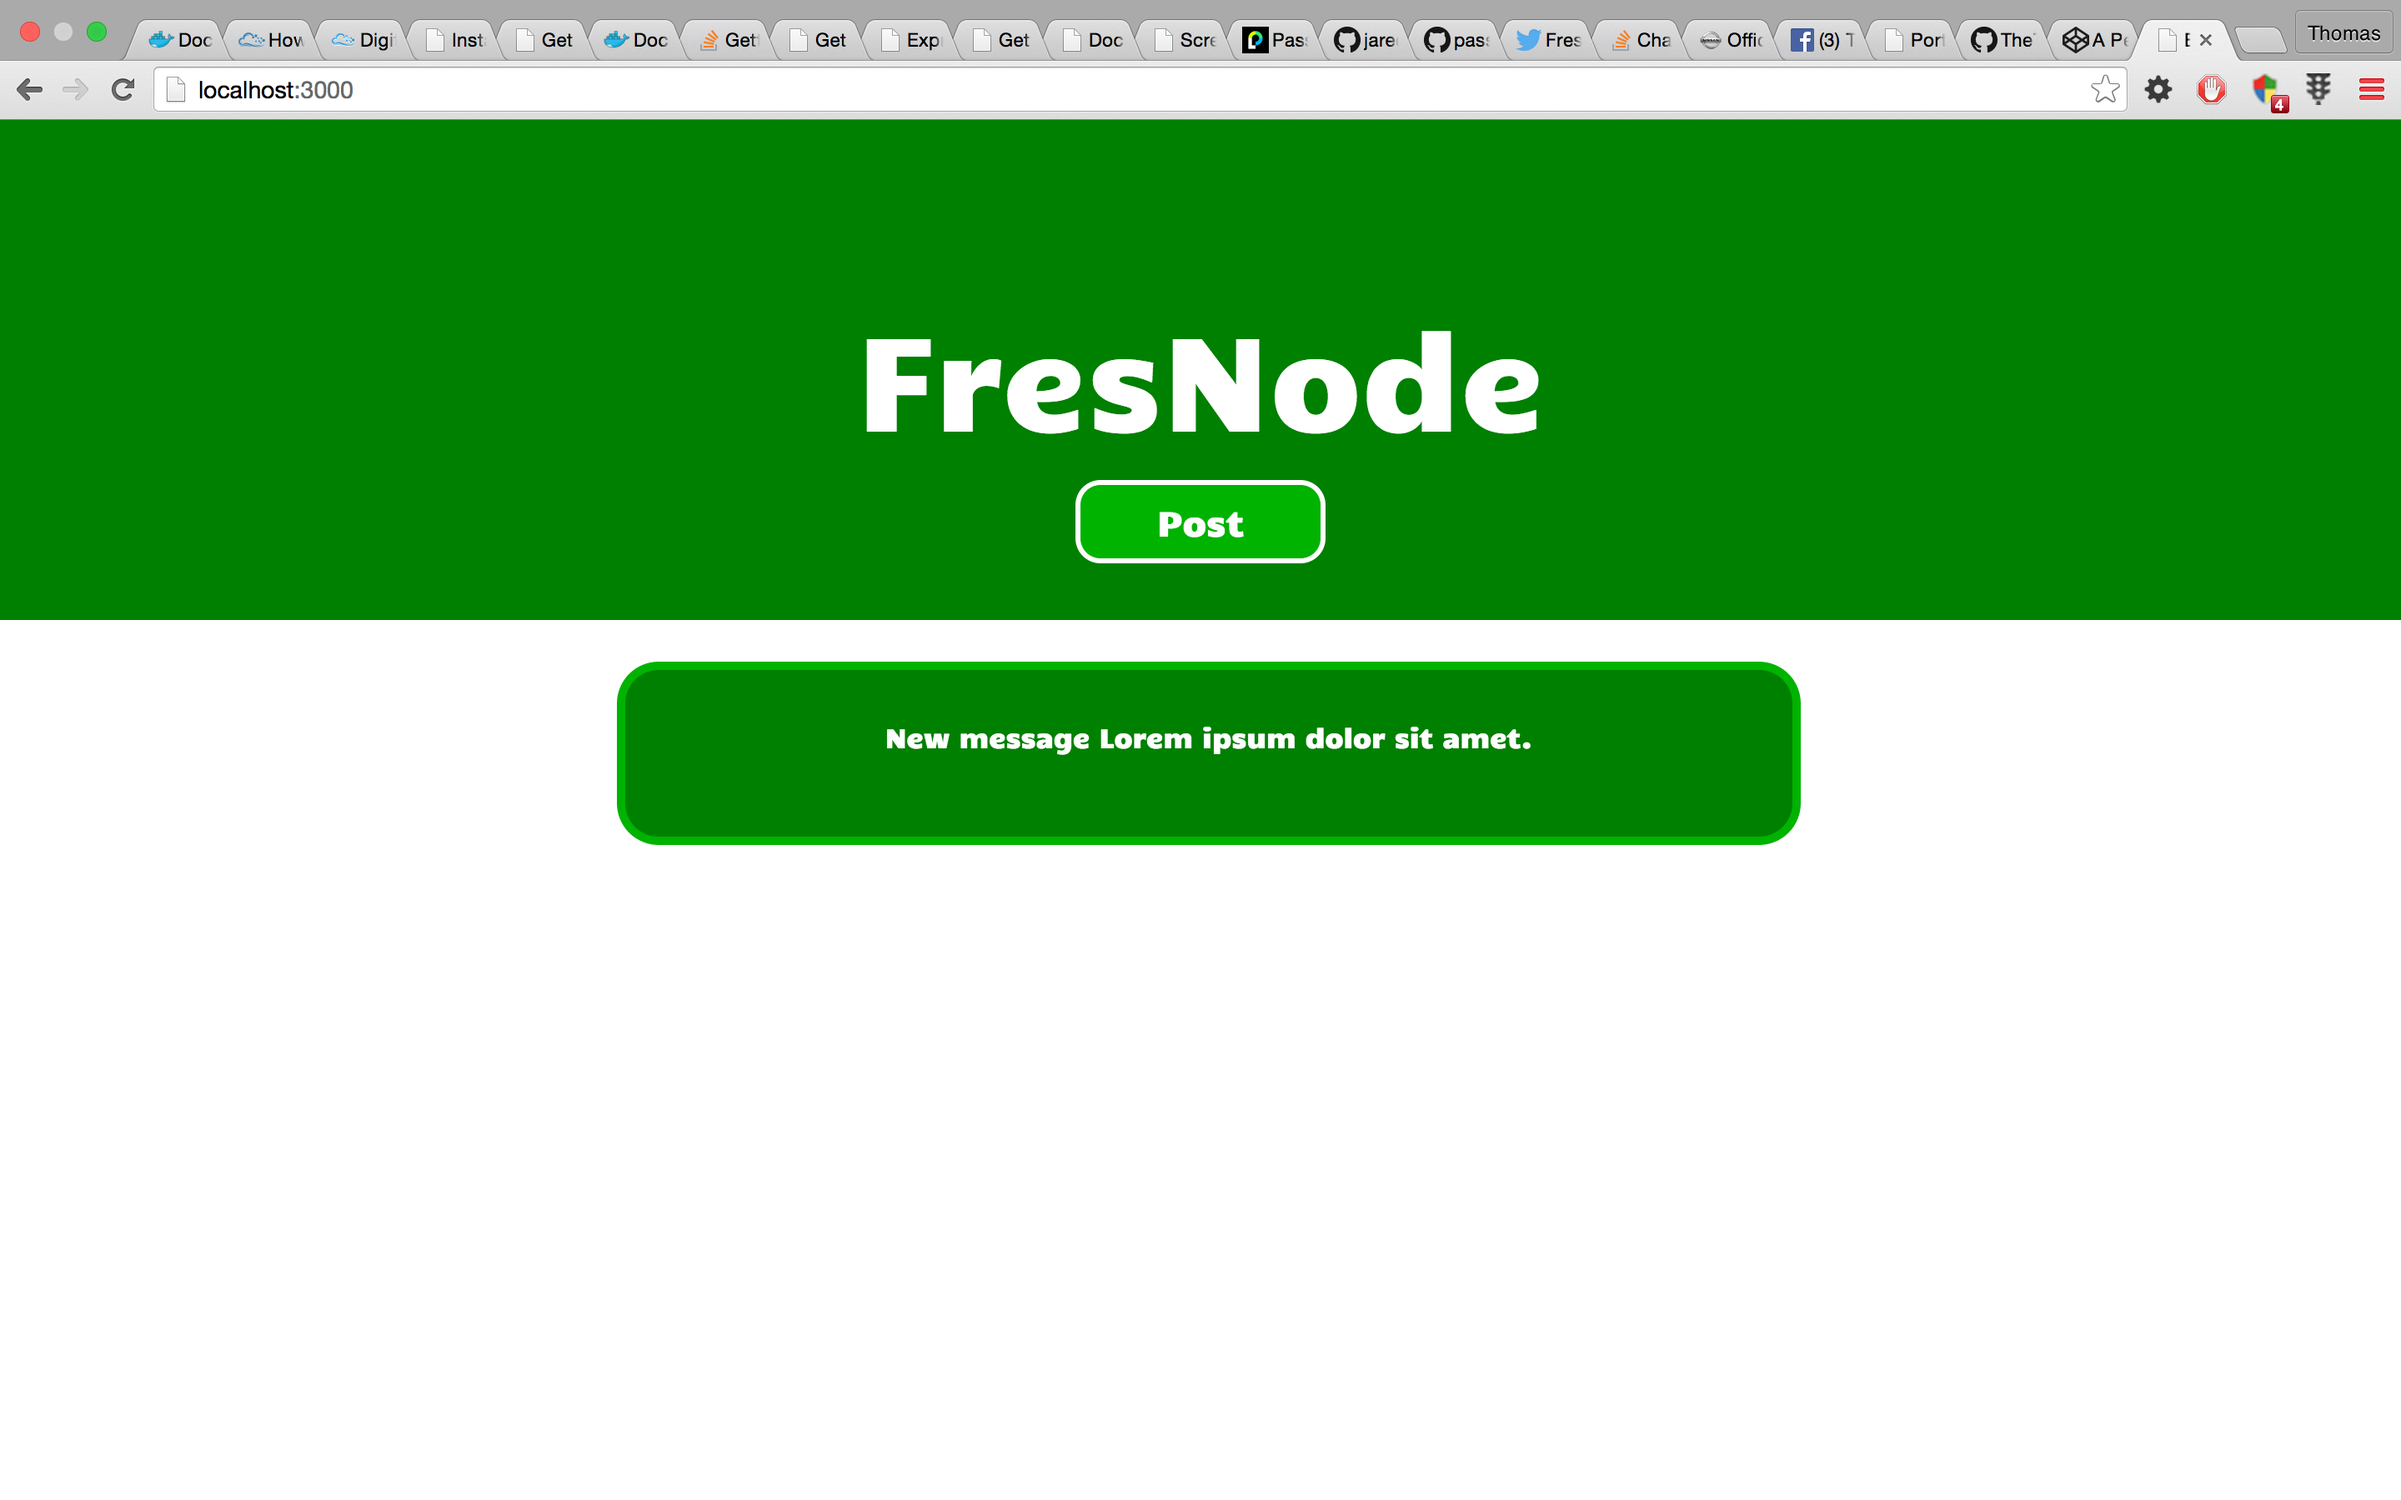
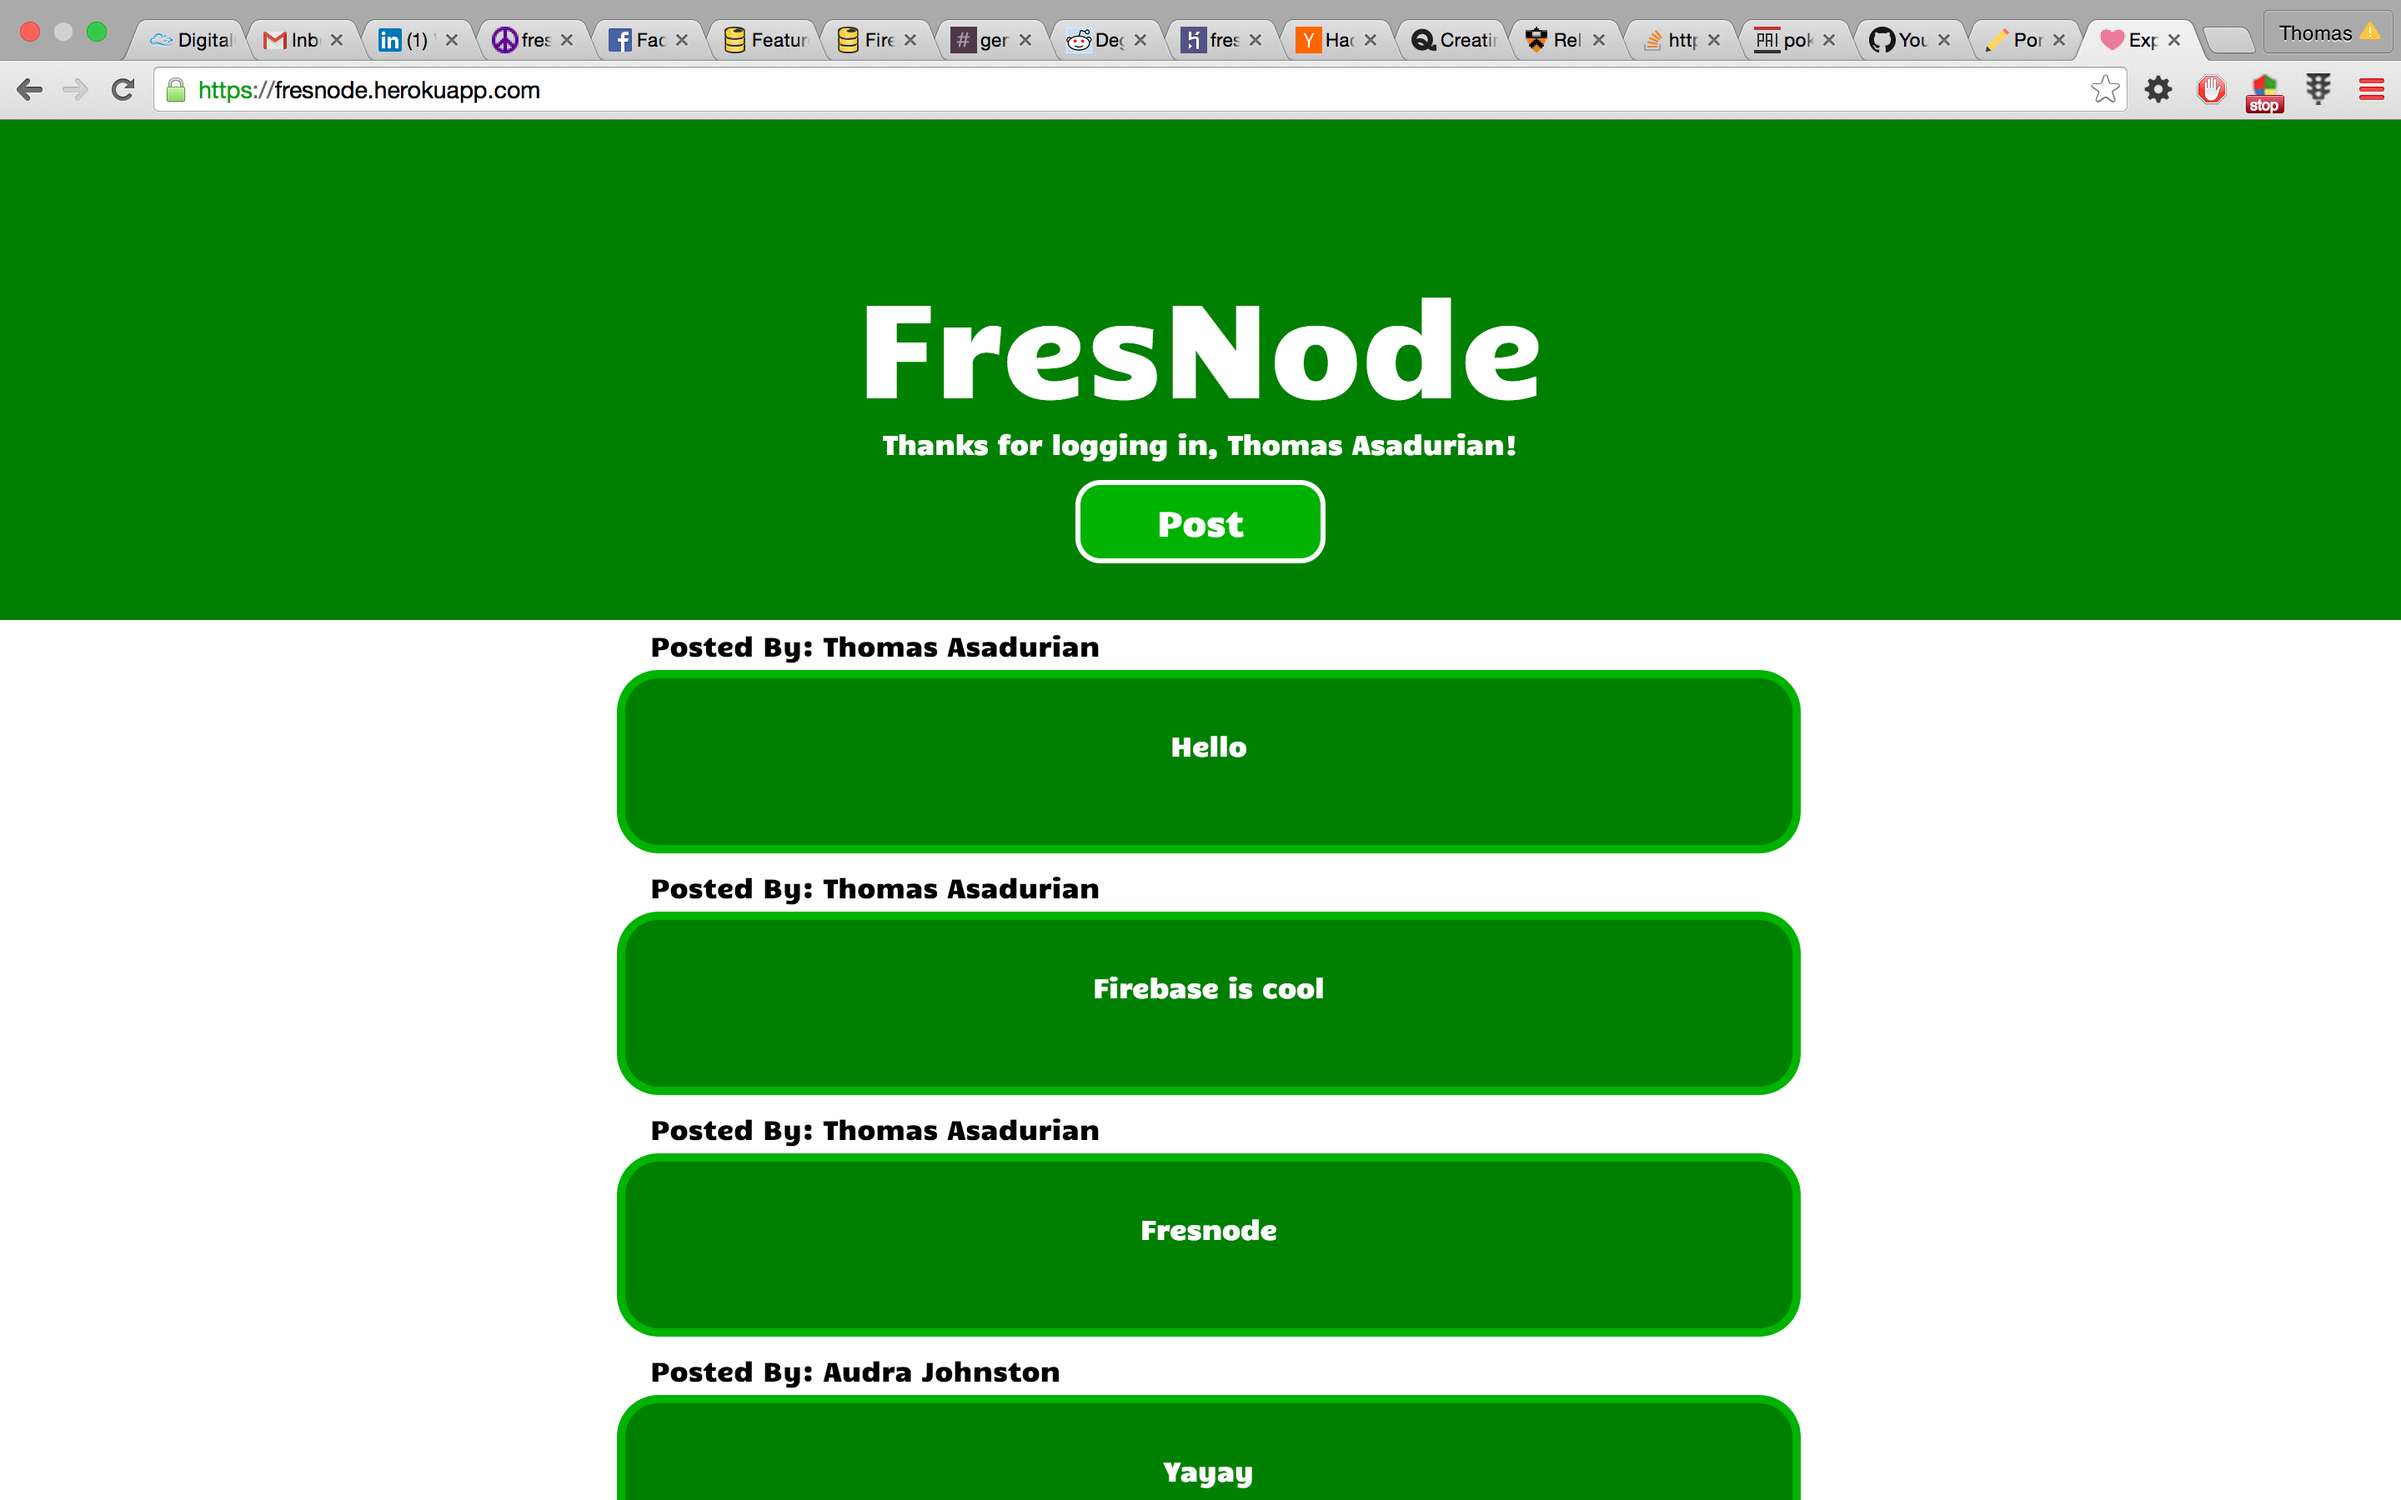
updated fresnode

diff --git a/_site/Portfolio.html b/_site/Portfolio.html
@@ -91,9 +91,9 @@
 			<article id="page">
 	
   <h2 id="fresnode">FresNode</h2>
-<p>FresNode is a project I’m working on for the Fresno Node.js meetup group. The users will be able to log in with an oAuth of their choosing, and post a message! The backend is built on node.js, with handlebars as the templating engine. Information is stored using MongoDB.</p>
+<p>FresNode is a project I’m working on for the Fresno Node.js meetup group. The users are able to log in with the facebook api, and post a message! The backend is built using firebase, with handlebars as the templating engine.</p>
 
-<p>For further details on FresNode, please visit the <a href="https://github.com/TheTommyTwitch/fresnode">repository on Github</a>.</p>
+<p>View the live application <a href="https://fresnode.herokuapp.com/">here!</a>. For further details on FresNode, please visit the <a href="https://github.com/TheTommyTwitch/fresnode">repository on Github</a>.</p>
 
 <p><img src="img/fresnode.png" alt="Emerald" title="FresNode" /></p>
 

diff --git a/Portfolio.md b/Portfolio.md
@@ -3,9 +3,9 @@ layout: page
 title: Portfolio
 ---
 ## FresNode
-FresNode is a project I'm working on for the Fresno Node.js meetup group. The users will be able to log in with an oAuth of their choosing, and post a message! The backend is built on node.js, with handlebars as the templating engine. Information is stored using MongoDB.
+FresNode is a project I'm working on for the Fresno Node.js meetup group. The users are able to log in with the facebook api, and post a message! The backend is built using firebase, with handlebars as the templating engine.
 
-For further details on FresNode, please visit the [repository on Github](https://github.com/TheTommyTwitch/fresnode).
+View the live application [here!](https://fresnode.herokuapp.com/). For further details on FresNode, please visit the [repository on Github](https://github.com/TheTommyTwitch/fresnode).
 
 ![Emerald](img/fresnode.png "FresNode")
 
